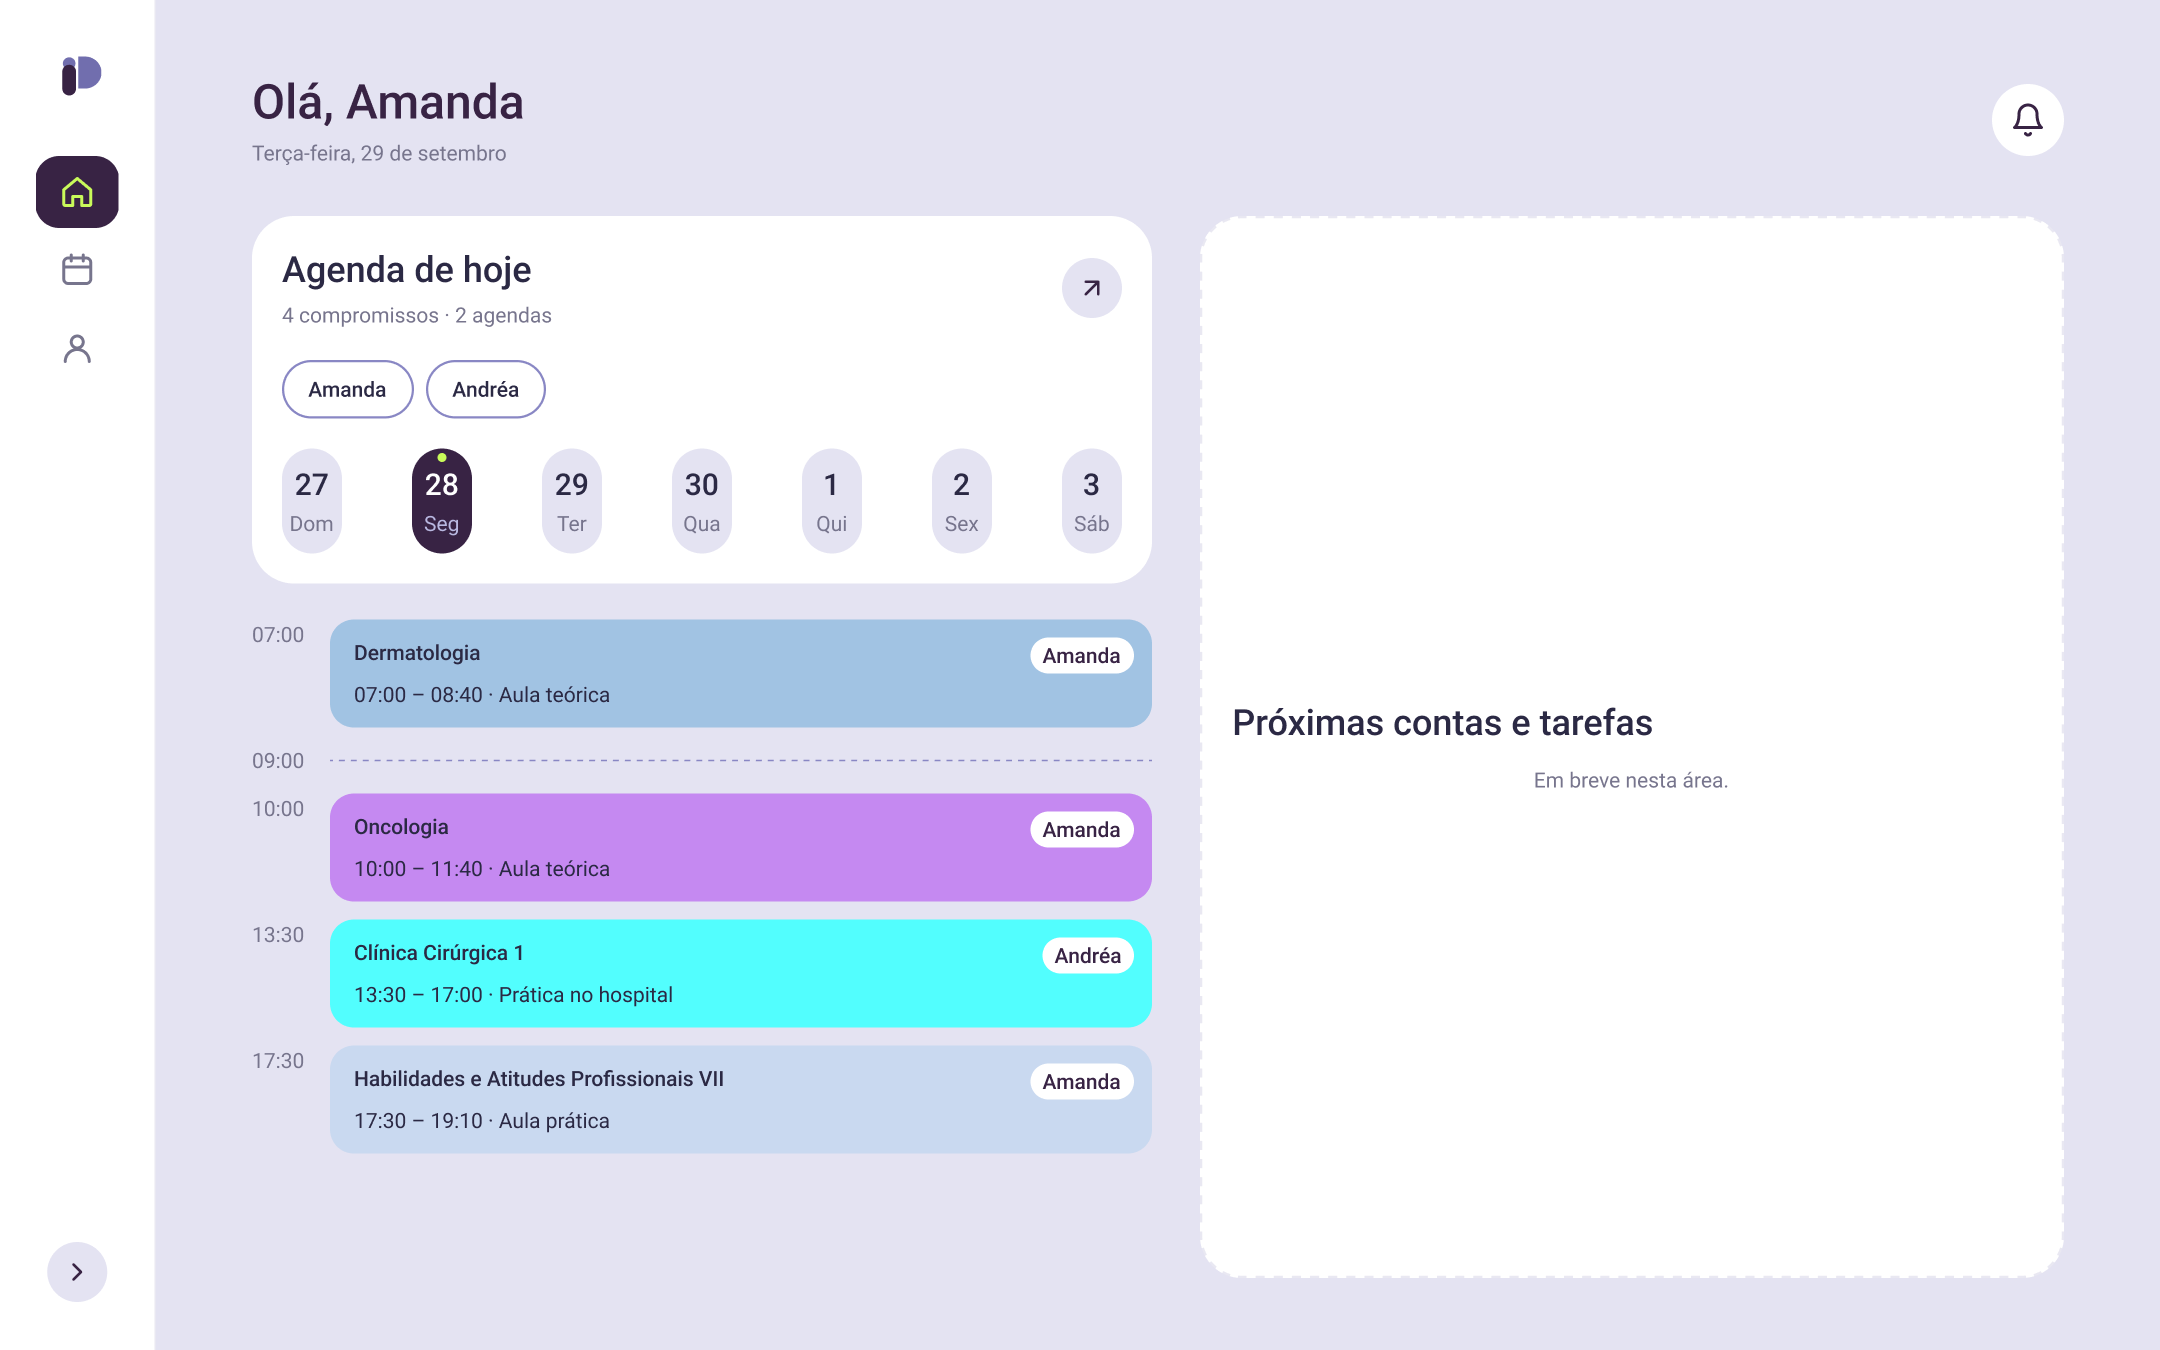
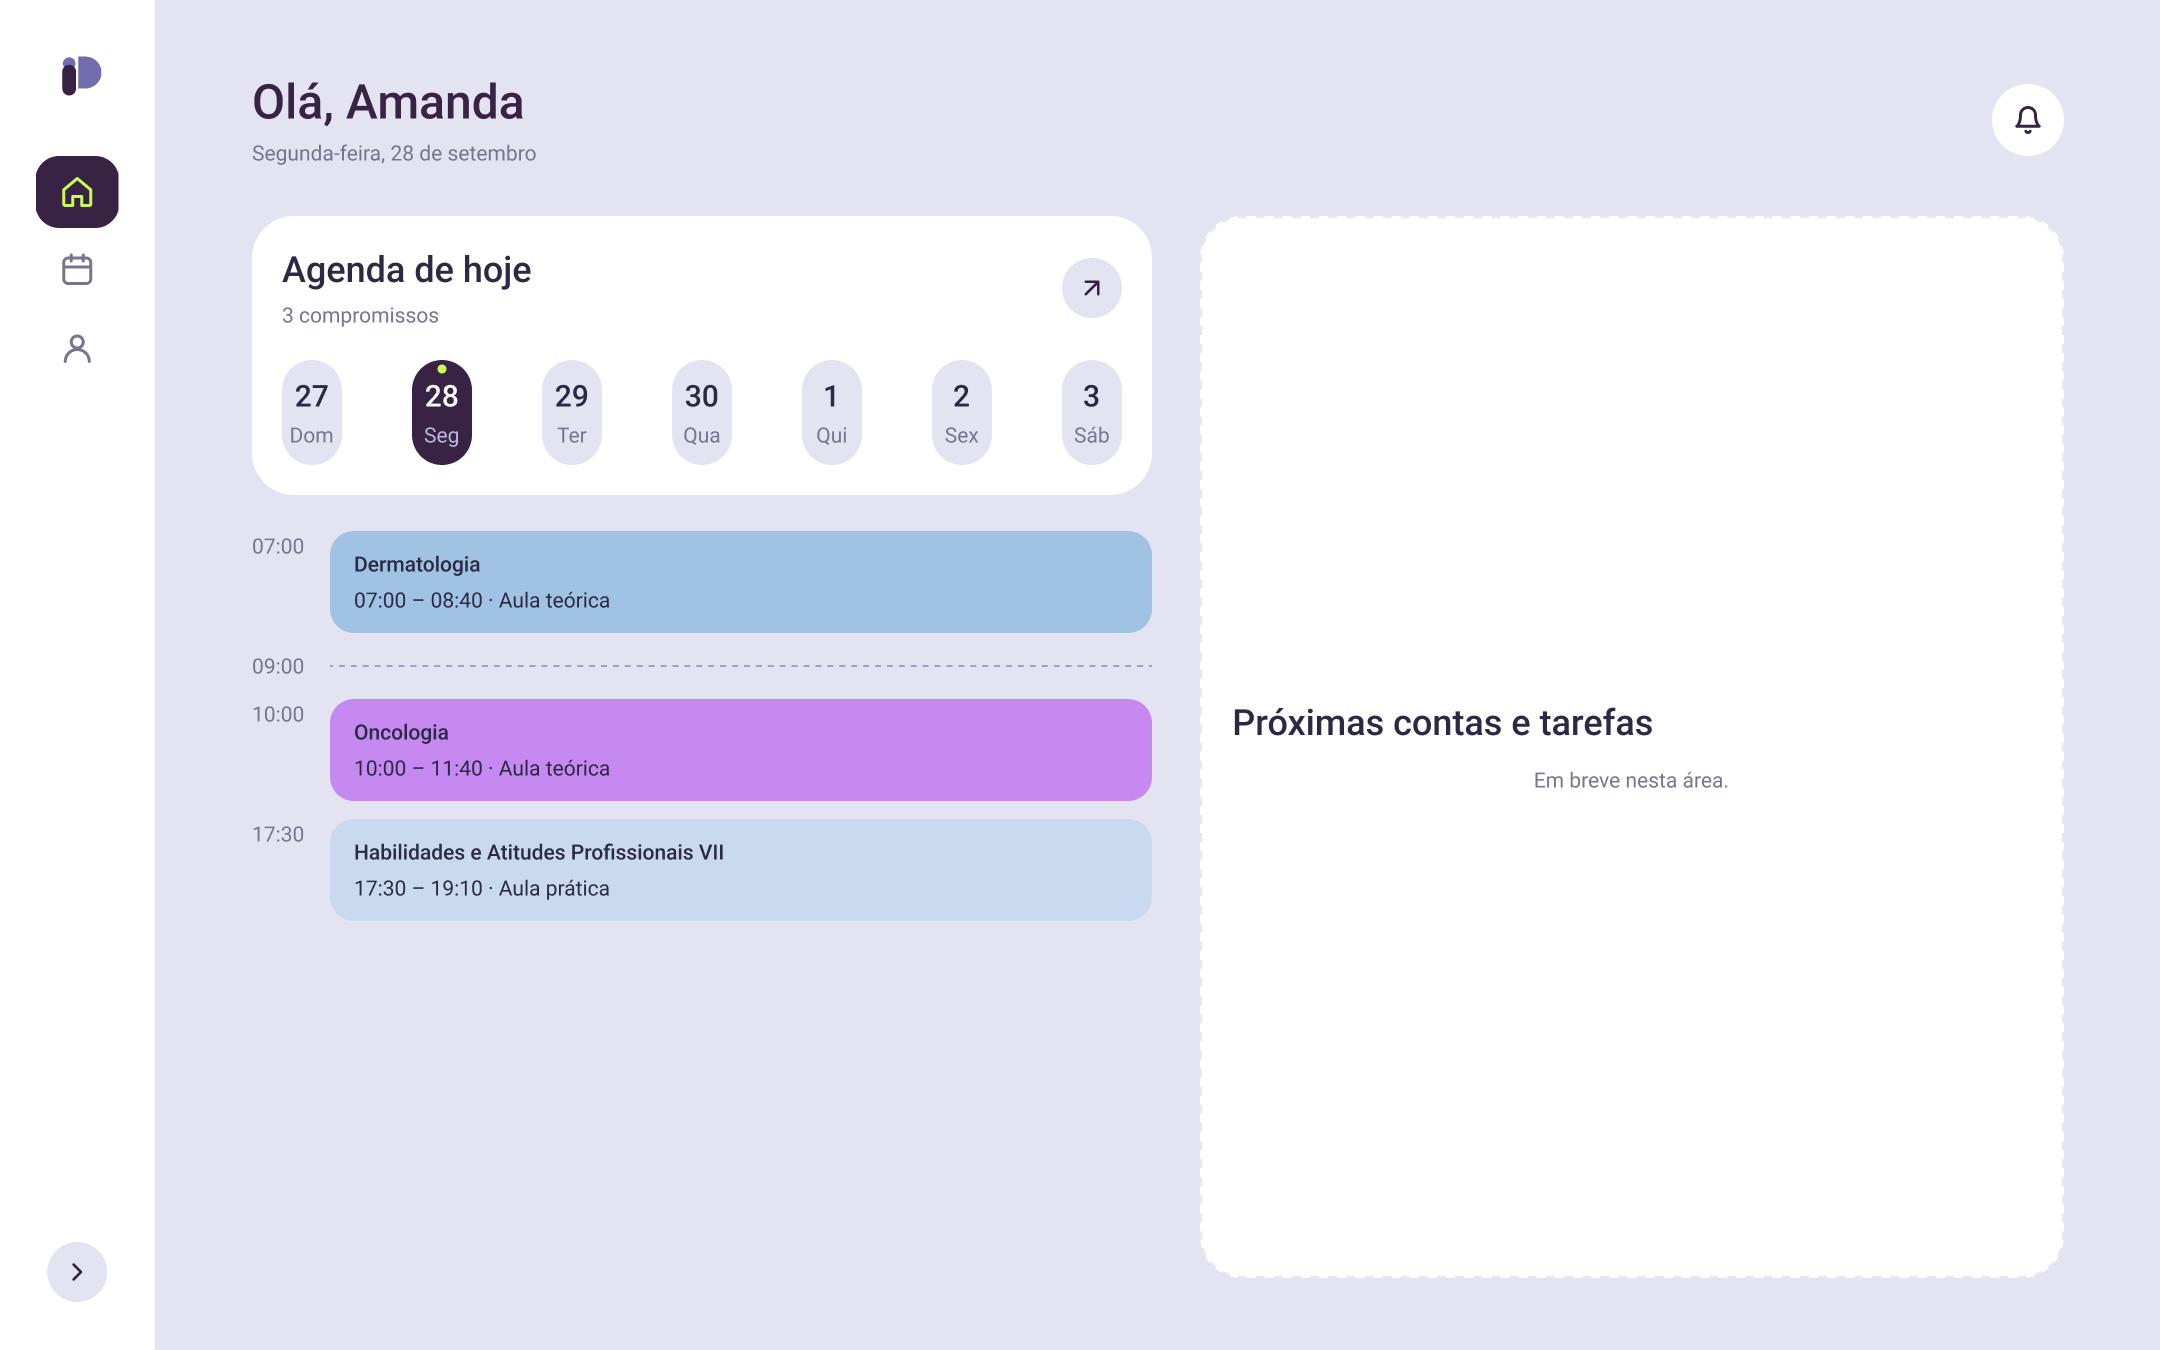
Document agenda selector rules and owner-only home agenda
- PRD: agenda filter is a multiselect with "Todas as agendas"; at least
  one agenda must stay selected. Início shows only the logged-in user's
  agenda, with no filter.
- Início design doc: remove filter chips and owner tags from the home
  card/timeline; refresh screenshots.
- Ignore the local .claude/ folder.

diff --git a/docs/design/inicio/README.md b/docs/design/inicio/README.md
@@ -12,12 +12,12 @@ The MVP home shows only the logged-in user's name and today's agenda items. Upco
 
 1. **Header:** "Olá, {primeiro nome}" (Page Title, `lavender.900`) + full date in pt-BR (Body Small, `ink.600`) + notifications bell button (48px, `white`, `radius.full`).
 2. **"Agenda de hoje" card** (`white`, `radius.xl`, padding 20, gap 20):
-   - Title (Section Heading) + summary "{n} compromissos · {n} agendas" (Body Small) + a 40px round button that opens the Agenda screen.
-   - Agenda filter chips, one per household agenda (Label, `lavender.600` 1.5px border, `radius.full`). Multi-select; no chip selected means all agendas are shown (PRD).
+   - Title (Section Heading) + summary "{n} compromissos" (Body Small) + a 40px round button that opens the Agenda screen.
+   - No agenda filter: Início shows only the logged-in user's own agenda (product owner decision, 2026-09-29). Filtering across household agendas lives on the Agenda screen.
    - Week strip: 7 day pills (40px wide, `lavender.100`, `radius.full`), number in Numeric Emphasis and weekday in Body Small. The selected day uses `lavender.900` with white number, `lavender.300` weekday, and a 6px `lime.500` dot. Tapping a day changes the timeline below.
 3. **Timeline** (outside the card, to avoid nested cards): one row per item, time label (Body Small, `ink.600`, 40px column) + item card. Free slots between items show the hour with a dashed `lavender.600` divider.
    - **Item card:** fill = subject color (see below), `radius.md`, padding 12/16. Subject name (Label, `ink.900`), then "{início} – {fim} · {tipo}" (Body Small, `ink.900`).
-   - **Owner tag:** top-right white pill with the agenda owner's first name (Label, `lavender.900`). Ownership is never shown by color, because color encodes the subject (PRD).
+   - **No owner tag on Início:** every item belongs to the logged-in user, so the owner tag is omitted here. The Agenda screen, which can combine agendas, keeps the top-right owner tag (ownership is never shown by color, because color encodes the subject; PRD).
 4. **Bottom navigation:** floating bar, `lavender.900`, `radius.full`, 24px from the screen edges. Active item is a `lime.500` pill with icon + label; inactive items are icon-only in `lavender.300` (code must give them accessible names). Variants: `Ativo=Início | Agenda | Perfil` × `Tom=Escuro | Claro` (the light-toned bar is used on the dark theme). UI copy uses "Início" (pt-BR) for the item the owner called "Home".
 
 ## Subject colors
@@ -92,8 +92,8 @@ Contrast on dark: `white` on `lavender.950` ≈17.8:1; `lavender.300` on `lavend
 
 ## Sample data
 
-The screen uses sample items (Dermatologia, Oncologia, Clínica Cirúrgica 1, Habilidades e Atitudes Profissionais VII) and the agendas "Amanda" and "Andréa". They are placeholders, not real schedule data.
+The screen uses sample items from the logged-in user's agenda ("Amanda"): Dermatologia, Oncologia, Habilidades e Atitudes Profissionais VII. They are placeholders, not real schedule data.
 
 ## Not yet designed
 
-Loading, empty ("Nenhum compromisso hoje"), error, and selected-filter states; the day with no items; the navigation animation (reference: the owner's Dribbble clip, where the active pill slides between items; must respect `prefers-reduced-motion`).
+Loading, empty ("Nenhum compromisso hoje"), and error states; the day with no items; the navigation animation (reference: the owner's Dribbble clip, where the active pill slides between items; must respect `prefers-reduced-motion`).

diff --git a/docs/PRD.md b/docs/PRD.md
@@ -32,7 +32,8 @@ The MVP's first two features, in priority order, are the shared agenda/calendar 
 ### Shared agenda and PDF cronograma import
 
 - A household can have multiple named agendas (for example, "Agenda de Amanda", "Agenda de Andréa"), grouped under one household. An agenda is a filterable collection of calendar items, distinct from household membership.
-- The calendar view lets a user select one or more agendas to filter what is shown. When no agenda is selected, all agendas are shown combined.
+- The calendar view lets a user select one or more agendas to filter what is shown, through a multiselect with a "Todas as agendas" option that selects every agenda. When every agenda is selected, the field reads "Todas as agendas". At least one agenda must stay selected; the last selected agenda cannot be deselected (decided by the product owner on 2026-09-29).
+- The home screen ("Início") shows only the logged-in user's own agenda, with no agenda filter (decided by the product owner on 2026-09-29).
 - Each calendar item belongs to exactly one agenda (its owner). Ownership is not shown via item color, because color already encodes discipline/subject on the calendar. Instead, show a small badge/dot in the item's top-right corner (or an equivalent tag) identifying which user's agenda the item belongs to.
 - A household member can import a class schedule ("cronograma") PDF into an agenda. The supported PDF format is organized by week and time slot; the file does not include a year.
   - Year assignment: parsing starts from the current year for the first week found. Whenever a later week's month is earlier than the previous week's month (a December-to-January crossing), that week and every following week roll over to the next year.
